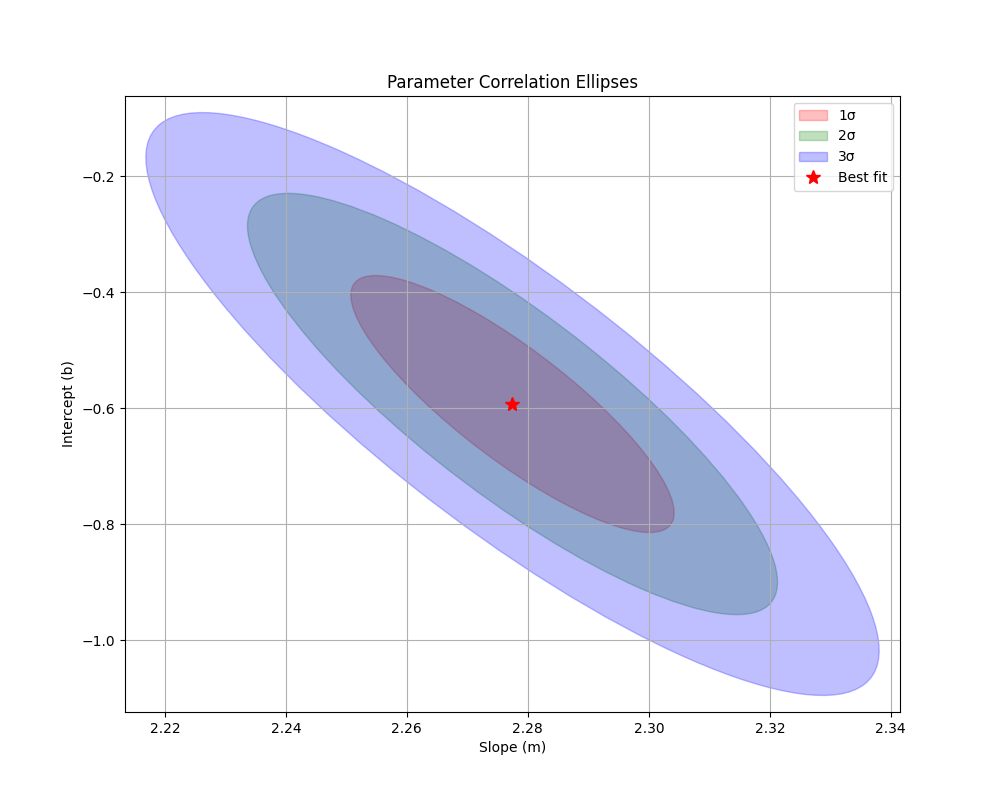
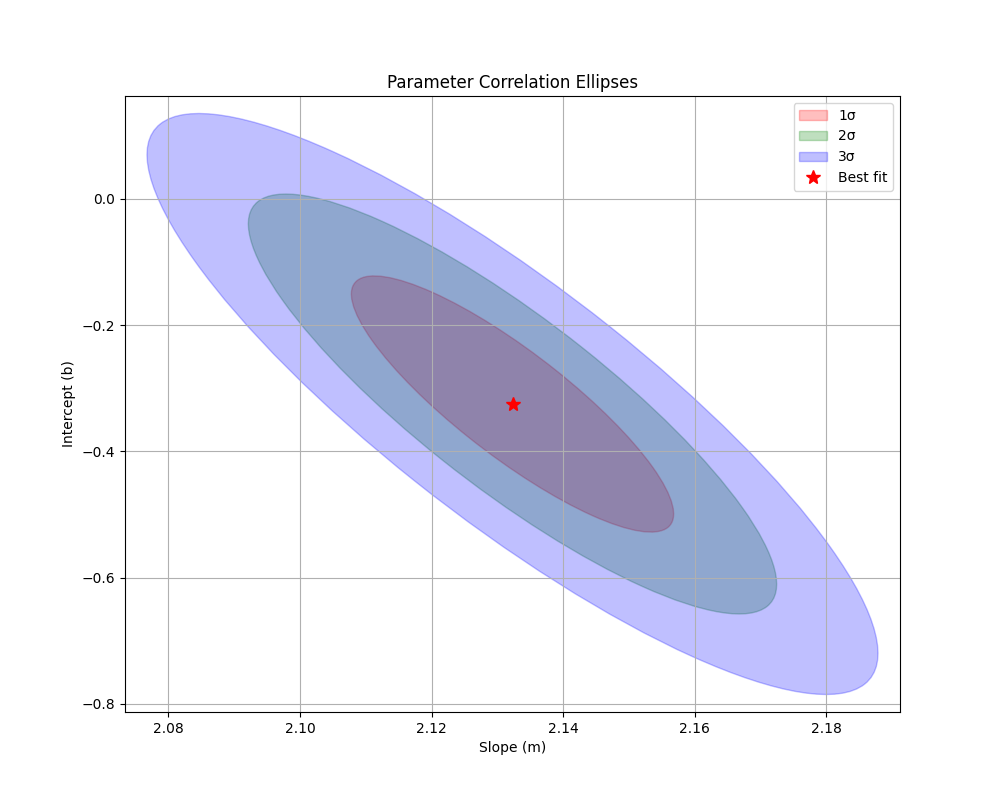
varius updates
fixed buges in henerate_fake-data.py and in odr-fit.py

diff --git a/odr-fit.py b/odr-fit.py
@@ -37,7 +37,7 @@ def perform_odr(x, dx, y, dy):
 
     degrees_freedom = len(x) - 2
     chi_square = results.sum_square
-    chi_square_reduced = chi_square / (degrees_freedom)
+    chi_square_reduced = chi_square / degrees_freedom
     p_value = 1 - stats.chi2.cdf(chi_square, degrees_freedom)
 
     return results, chi_square, degrees_freedom, chi_square_reduced, p_value
@@ -183,33 +183,9 @@ def plot_ellipses(results, save_path):
     plt.savefig(save_path)
     plt.close()
 
-    # Save results to text file
-    with open("fit_results.txt", "w") as f:
-        f.write("Regression Results:\n")
-        f.write("-----------------\n")
-        f.write(f"Slope: {results.beta[0]:.6f} ± {results.sd_beta[0]:.6f}\n")
-        f.write(
-            f"Intercept: {results.beta[1]:.6f} ± {results.sd_beta[1]:.6f}\n"
-        )
-        f.write(f"\nCovariance matrix:")
-        f.write(f"\n{format_matrix(results.cov_beta)}")
-        f.write(
-            f"\nPearson's Correlation coefficient: {results.cov_beta[0,1] / (results.sd_beta[0] * results.sd_beta[1]):.6f}\n"
-        )
-        f.write(f"\nChi-square: {chi_square:.6f}\n")
-        f.write(f"Deegres of freedom: {deegres_freedom}\n")
-        f.write(f"Reduced chi-square: {chi_square_reduced:.6f}\n")
-        f.write(f"P-value: {p_value:.6f}\n")
-
-    # Create and save plots
-    plot_fit(x, dx, y, dy, results, "fit_plot.png")
-    plot_residuals(x, dx, y, dy, results, "residuals_plot.png")
-    plot_ellipses(results, "correlation_ellipses.png")
-
 
 def main():
     """Main function to run the analysis"""
-
     default_input = "data.csv"
 
     if len(sys.argv) == 1:
@@ -226,9 +202,26 @@ def main():
         return
 
     x, dx, y, dy = data
-    results, chi_square, deegres_freedom, chi_square_reduced, p_value = (
-        perform_odr(x, dx, y, dy)
-    )
+    results, chi_square, degrees_freedom, chi_square_reduced, p_value = perform_odr(x, dx, y, dy)
+    
+    # Create and save plots
+    plot_fit(x, dx, y, dy, results, "fit_plot.png")
+    plot_residuals(x, dx, y, dy, results, "residuals_plot.png")
+    plot_ellipses(results, "correlation_ellipses.png")
+
+    # Save results to text file
+    with open("fit_results.txt", "w") as f:
+        f.write("Regression Results:\n")
+        f.write("-----------------\n")
+        f.write(f"Slope: {results.beta[0]:.6f} ± {results.sd_beta[0]:.6f}\n")
+        f.write(f"Intercept: {results.beta[1]:.6f} ± {results.sd_beta[1]:.6f}\n")
+        f.write(f"\nCovariance matrix:")
+        f.write(f"\n{format_matrix(results.cov_beta)}")
+        f.write(f"\nPearson's Correlation coefficient: {results.cov_beta[0,1] / (results.sd_beta[0] * results.sd_beta[1]):.6f}\n")
+        f.write(f"\nChi-square: {chi_square:.6f}\n")
+        f.write(f"Degrees of freedom: {degrees_freedom}\n")
+        f.write(f"Reduced chi-square: {chi_square_reduced:.6f}\n")
+        f.write(f"P-value: {p_value:.6f}\n")
 
 
 if __name__ == "__main__":

diff --git a/generate_fake_data.py b/generate_fake_data.py
@@ -1,11 +1,12 @@
 import numpy as np
 
-x = np.arange(15)
-dx = np.full_like(x, 0.1)
-y = (
-    2 * x + 0.02 * x**2 + 0.2 * (np.random.randn(15))
-)  # More accurate normal distribution
-dy = 0.15 + 0.1 * np.random.rand(15)
+n = 15
+x = np.arange(n, dtype=float)
+dx = np.random.normal(loc=0.1, scale=0.01, size=n)
+dx = np.clip(dx, 0, None)  # Ensure all values are positive
+y = 2.0 * x + 0.01 * x**2 + 0.2 * (np.random.randn(n))
+dy = np.random.normal(loc=0.15, scale=0.025, size=n)
+dy = np.clip(dy, 0, None)  # Ensure all values are positive
 
 # Save to CSV
 np.savetxt(
@@ -14,5 +15,5 @@ np.savetxt(
     delimiter=",",
     header="x,dx,y,dy",
     comments="",
-    fmt=["%d", "%.1f", "%.4f", "%.4f"],
+    fmt=["%d", "%.4f", "%.4f", "%.4f"],
 )

diff --git a/README.md b/README.md
@@ -35,14 +35,12 @@ https://github.com/hezy/ODR-example/blob/main/Installation_Guide.md
    - y: y-values of the data points
    - dy: uncertainties in the y-values
 
-2. Update the `filename` variable in the `main` function to match your CSV file name
-
-3. Run the script:
+2. Run the script:
    ```
-   python odr-fit.py [data.csv]
-   ```
+   python odr-fit.py data.csv
+(change to your file name)   ```
 
-4. The script will read the data from the CSV file, perform the ODR analysis, and save the regression results in a file `fit_results.txt`
+3. The script will read the data from the CSV file, perform the ODR analysis, and save the regression results in a file `fit_results.txt`
 
 5. Three figures will be saved as files:
 * `fit_plot.png` - the data points with best-fit line
@@ -58,18 +56,18 @@ Running the script with the provided example data will produce the following out
 ```
 Regression Results:
 -----------------
-Slope: 2.277464 ± 0.022014
-Intercept: -0.592683 ± 0.182644
+Slope: 2.132292 ± 0.018035
+Intercept: -0.325048 ± 0.149405
 
 Covariance matrix:
- 3.105763e-04 -2.179691e-03
--2.179691e-03  2.137945e-02
-Pearson's Correlation coefficient: -0.542123
+ 2.608150e-04 -1.854059e-03
+-1.854059e-03  1.789871e-02
+Pearson's Correlation coefficient: -0.688081
 
-Chi-square: 20.284218
-Deegres of freedom: 13
-Reduced chi-square: 1.560324
-P-value: 0.088346
+Chi-square: 16.212495
+Degrees of freedom: 13
+Reduced chi-square: 1.247115
+P-value: 0.237845
 ```
 These results will be saved as a text file. Three figures will also be saved, showing the data points with error bars and the best-fit line, residuals plot, and parameter correlation ellipses for the 1σ, 2σ, and 3σ confidence levels.
 
